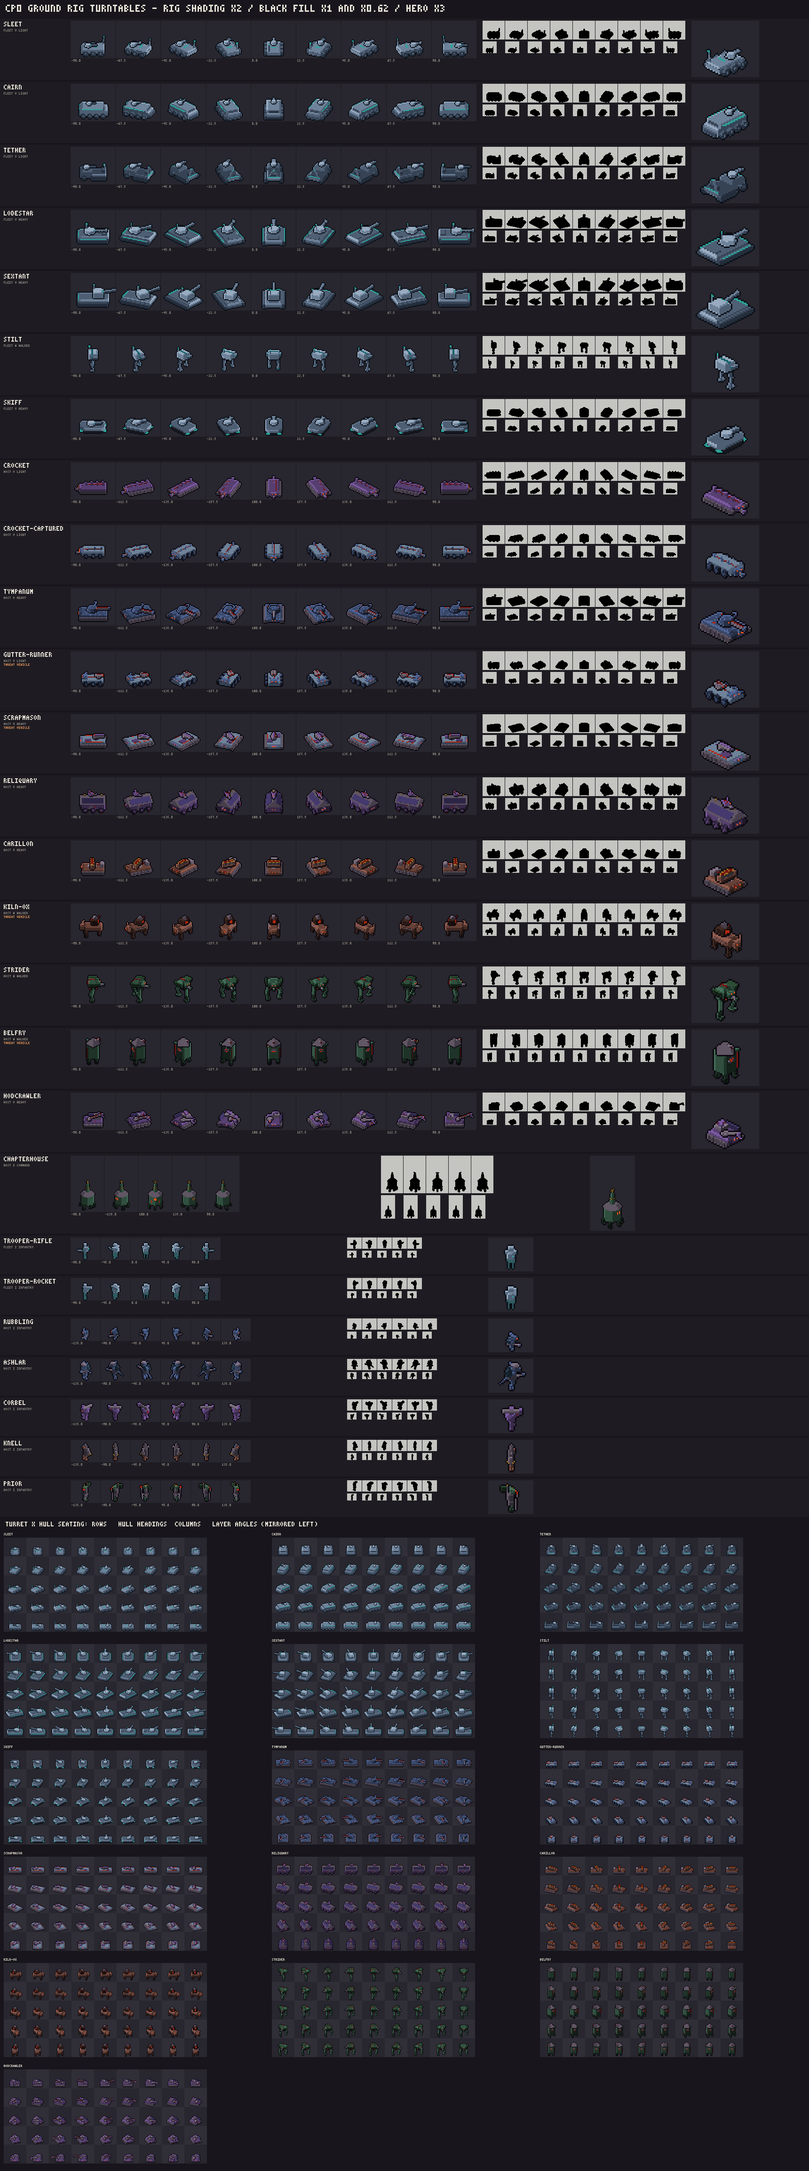
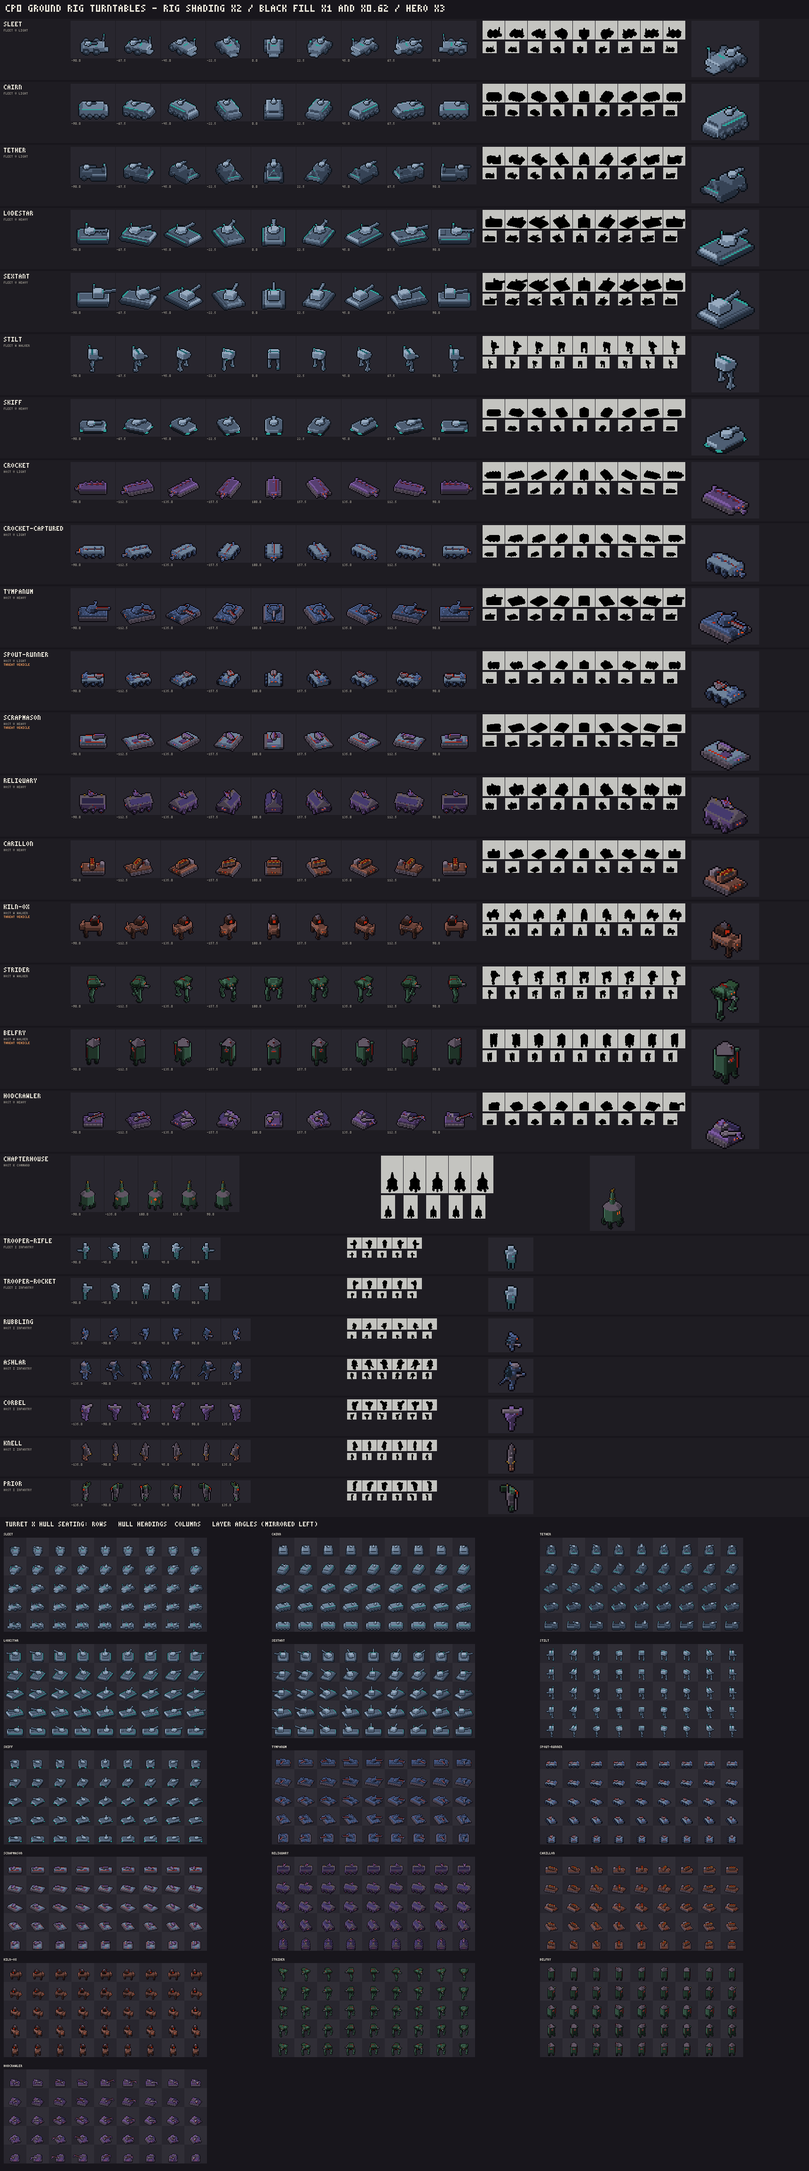
A6 originality: Spout-runner rename, Stilt chin pod, Sleet four wheels and skid
- Rename the Host threat buggy Gutter-runner -> Spout-runner (id, name, rig
  file, ground-host family, regenerated ground_blocks_atlas.dart, openspec
  and plan docs); its launcher is now "channel-fed".
- Stilt: drop the side gun pods; one twin-gun pod slung under the cab front
  (leg gap and seating tests pass).
- Sleet: four big wheels plus a sled skid under the tail instead of six
  wheels; family subject prompt and style guide updated.
- Host negative prompt adds crucifix, scripture, inscription, open book,
  organ pipes, skull(s), human crew (Carillon/Chapterhouse guard).
- Regenerated pack, Fleet krybor/hollow atlases and the rig turntable sheet.
- Plan §10 A6 Done; openspec ground-forces-rework task 1.3 ticked.

Claude-Session: https://claude.ai/code/session_01ALj27NA6A3MCHkUBk5WCWy
Tillandsias-Host: macuahuitl
Generated-By: tool=claude-code

diff --git a/lib/game/ground_blocks_atlas.dart b/lib/game/ground_blocks_atlas.dart
@@ -1410,10 +1410,10 @@ abstract final class GroundBlocks {
       cellW: 48, cellH: 40, threat: false,
       headings: [0.0, 22.5, 45.0, 67.5, 90.0],
       angles: [0.0, 22.5, 45.0, 67.5, 90.0],
-      origin: (24.0, 33.0), artPivot: (24.0, 22.0),
+      origin: (24.0, 31.0), artPivot: (24.0, 22.0),
       pivot: [(0.0, 8.9), (1.9, 8.7), (3.5, 8.2), (4.6, 7.4), (5.0, 6.4)],
       muzzle: [(0.0, 5.8), (3.6, 5.4), (6.7, 4.4), (8.8, 2.9), (9.5, 1.0)],
-      size: [(22, 17), (28, 19), (32, 20), (30, 22), (27, 24)],
+      size: [(22, 21), (28, 22), (31, 22), (32, 21), (31, 24)],
       bob: [],
       pieces: []),
     'cairn': GroundBlockUnit(
@@ -1465,9 +1465,9 @@ abstract final class GroundBlocks {
       cellW: 48, cellH: 40, threat: false,
       headings: [0.0, 22.5, 45.0, 67.5, 90.0],
       angles: [0.0, 22.5, 45.0, 67.5, 90.0],
-      origin: (24.0, 35.0), artPivot: (24.0, 24.5),
+      origin: (24.0, 35.0), artPivot: (24.0, 24.0),
       pivot: [(0.0, 13.0), (0.0, 13.0), (0.0, 13.0), (0.0, 13.0), (0.0, 13.0)],
-      muzzle: [(7.2, 5.1), (8.9, 3.5), (9.3, 1.7), (8.3, -0.1), (6.0, -1.5)],
+      muzzle: [(0.0, 4.1), (4.1, 3.7), (7.5, 2.5), (9.8, 0.8), (10.6, -1.2)],
       size: [(14, 17), (15, 19), (15, 20), (12, 21), (8, 20)],
       bob: [0.0, 1.0, 0.0, 1.0, 0.0, 1.0],
       pieces: []),
@@ -1515,8 +1515,8 @@ abstract final class GroundBlocks {
       size: [(33, 17), (38, 22), (38, 24), (34, 24), (24, 22)],
       bob: [],
       pieces: ['turret', 'arch', 'trackL', 'trackR', 'chip0', 'chip1', 'chip2', 'chip3', 'chip4', 'chip5', 'chip6', 'chip7']),
-    'gutter-runner': GroundBlockUnit(
-      id: 'gutter-runner', faction: 'host', block: 'V', unitClass: 'light', layout: 7,
+    'spout-runner': GroundBlockUnit(
+      id: 'spout-runner', faction: 'host', block: 'V', unitClass: 'light', layout: 7,
       cellW: 48, cellH: 40, threat: true,
       headings: [90.0, 112.5, 135.0, 157.5, 180.0],
       angles: [90.0, 112.5, 135.0, 157.5, 180.0],
@@ -1700,7 +1700,7 @@ abstract final class GroundBlocks {
       'cairn': ('ground-fleet-krybor.png', 4),
       'crocket-captured': ('ground-host-krybor.png', 0),
       'tympanum': ('ground-host-krybor.png', 4),
-      'gutter-runner': ('ground-host-krybor.png', 8),
+      'spout-runner': ('ground-host-krybor.png', 8),
       'trooper-rifle': ('ground-infantry-krybor.png', 0),
       'trooper-rocket': ('ground-infantry-krybor.png', 2),
       'rubbling': ('ground-infantry-krybor.png', 4),

diff --git a/plan/human-ground-forces-style-guide.md b/plan/human-ground-forces-style-guide.md
@@ -48,7 +48,7 @@ The table maps onto the existing ally slots (`GroundAtlas.allyRow(sector, varian
 
 | # | Unit | Role | Slot (sector, variant) | Today | Propulsion | Size h0 / h90 (texels) | Near z 276 / far z 620 (units, h0 width) |
 | --- | --- | --- | --- | --- | --- | --- | --- |
-| F-1 | **Sleet** | Light scout rover | Krybor 0 | rover | 6 big wheels | 22 × 18 / 30 × 16 | 36 / 16 |
+| F-1 | **Sleet** | Light scout rover | Krybor 0 | rover | 4 big wheels + rear skid | 22 × 18 / 30 × 16 | 36 / 16 |
 | F-2 | **Cairn** | Armoured carrier (carries the rifle squad) | Krybor 1 | apc | 8 wheels | 24 × 22 / 34 × 18 | 39 / 17 |
 | F-3 | **Tether** | Half-track with recovery winch | Ringfall 0 | halftrack | front wheels, rear tracks | 24 × 20 / 34 × 17 | 39 / 17 |
 | F-4 | Militia squad | Rifle infantry (squad) | Ringfall 1 | militia | feet | see Section 4.3 | |
@@ -64,10 +64,10 @@ Every vehicle fits a **48 × 40 texel cell** at every heading (the diagonal head
 ### 4.1 Vehicles
 
 **F-1 Sleet: light scout rover.**
-- *Silhouette:* a short flat **wedge** that is lower at the front, on six big wheels that stick out past the body (the wheel row is the cue). A tiny pod turret with a short twin coil gun sits at the front third.
-- *Kit:* a whip antenna at the rear, a roof light bar (3-texel cyan strip), snow skids on the front wheels in Krybor.
+- *Silhouette:* a short flat **wedge** that is lower at the front, on four big wheels that stick out past the body (the wheels are the cue) and a flat sled skid under the tail (A6 originality: not a six-wheel row). A tiny pod turret with a short twin coil gun sits at the front third.
+- *Kit:* a whip antenna at the rear, a roof light bar (3-texel cyan strip), the tail skid reads as snow kit in Krybor.
 - *Motion:* the fastest ally; a 1-texel body bounce on alternate move frames.
-- *Phone read:* a small box with six dark dots around it and a cyan bar on top.
+- *Phone read:* a small box with four big dark wheels at its corners, a skid at the tail and a cyan bar on top.
 
 **F-2 Cairn: armoured carrier.**
 - *Silhouette:* the tallest wheeled box: a **flat roof with a stepped rear** (two steps, like a loading ramp) on eight wheels. A small remote gun pod on the roof. The rear ramp is visible from behind, which is the camera's usual view.
@@ -91,7 +91,7 @@ Every vehicle fits a **48 × 40 texel cell** at every heading (the diagonal head
 - *Phone read:* the barrel angled up. Artillery on both sides is "a thing that aims up", but the Fleet's is a single straight barrel and the Host's are open bells.
 
 **F-7 Stilt: two-legged walker.**
-- *Silhouette:* a **boxy cab** with a wide cyan visor strip, on **two straight telescoping legs** with flat square feet. Gun pods on both sides of the cab. Straight legs are the cue: the Host's walkers stand on arches.
+- *Silhouette:* a **boxy cab** with a wide cyan visor strip, on **two straight telescoping legs** with flat square feet. One twin-gun pod slung under the front of the cab; the cab sides stay plain (A6 originality: no side pods). Straight legs are the cue: the Host's walkers stand on arches.
 - *Motion:* a 6-frame stepped stride with a 1-texel cab bob; feet plant flat with a dust puff; stride-over (terrain guide) on ravine ends.
 - *Phone read:* a box held up by two sticks, cyan slit across the front.
 
@@ -235,12 +235,12 @@ red lights, orange lights, warm glow, gold, fire, horns, face, teeth, spikes, ho
 
 | Unit | Subject line |
 | --- | --- |
-| Sleet | a small fast six wheeled scout rover, low wedge shaped body lower at the front, big wheels sticking out past the body, tiny pod turret with a short twin barrel, whip antenna, roof light bar |
+| Sleet | a small fast four wheeled scout rover, low wedge shaped body lower at the front, four big wheels sticking out past the body, a flat sled skid under the tail, tiny pod turret with a short twin barrel, whip antenna, roof light bar |
 | Cairn | an eight wheeled armoured personnel carrier, tall flat roofed box with a stepped rear loading ramp, small remote gun pod on the roof, square vision blocks |
 | Tether | a half-track recovery vehicle, wheels at the front and a skirted track at the rear, short A-frame crane and cable drum at the back, twin autocannon on a ring mount over the cab |
 | Lodestar | a futuristic main battle tank, low faceted wedge hull with a long chamfered front, side skirts hiding the tracks, flat hexagonal turret set forward, very long thin rail cannon with two coil rings and a square muzzle brake, short sensor mast at the turret rear |
 | Sextant | a self-propelled long range gun on a low tracked wedge hull, tall boxy casemate at the rear, very long barrel angled up, folding spade outriggers at the back |
-| Stilt | a two legged walker, boxy armoured cab with a wide visor slit, two straight telescoping legs with flat square feet, gun pods on both sides of the cab |
+| Stilt | a two legged walker, boxy armoured cab with a wide visor slit, two straight telescoping legs with flat square feet, one twin gun pod slung under the front of the cab, plain flat cab sides |
 | Skiff | a hover tank, flat lozenge hull with chamfered corners, no wheels and no tracks, four hover pads glowing underneath, low turret with a short wide barrel, floating above its shadow |
 | Rifle trooper | a soldier in a light exoskeleton frame seen from behind, squared helmet with a visor strip, flat shoulder plates, battery backpack, long straight rifle |
 | Rocket trooper | the same soldier carrying a box shaped rocket launcher on the shoulder |

diff --git a/plan/render-runs/ground-forces-rework.md b/plan/render-runs/ground-forces-rework.md
@@ -137,7 +137,7 @@ Allow 15% for rerolls: **about 1,500 jobs and 15 hours**, run in phases with the
 | 1 | Pilot: Lodestar, Crocket, Ashlar Guard (heroes, headings, turret, 2 VACE clips each) | about 90 | CP0 |
 | 2 | Fleet: remaining units | about 480 | CP1 |
 | 3 | Host: remaining Tier A and refresh | about 650 | CP2 (can run in parallel with Phase 2 if the operator prefers Host first) |
-| 4 | Threat vehicles (Gutter-runner, Scrapmason, Kiln Ox, Belfry) as V/W blocks, behind a flag | about 230 more | CP5 and a gameplay check of telegraph timing |
+| 4 | Threat vehicles (Spout-runner, Scrapmason, Kiln Ox, Belfry) as V/W blocks, behind a flag | about 230 more | CP5 and a gameplay check of telegraph timing |
 | 5 | Atmosphere and wildlife | about 80 | CP4 |
 
 ## 6. Ledger
@@ -172,7 +172,7 @@ go test ./...         # determinism, heading sets, cell contract, seating, leg g
 `demon-attack.ground-blocks/v1`) and their empty `-runs.json`. Rigs: `art/families/rigs/<unit>.json`, 26 units: Fleet
 Sleet, Cairn, Tether, Lodestar, Sextant, Stilt, Skiff and the rifle and rocket troopers; Host Crocket, captured Crocket,
 Tympanum, Reliquary, Carillon, Hodcrawler, Buttress Strider, Chapterhouse, Rubbling, Ashlar Guard, Corbel Brute,
-Knell-bearer, Prior; and the four threat vehicles (Gutter-runner, Scrapmason Crawler, Kiln Ox, Belfry) with headings, per
+Knell-bearer, Prior; and the four threat vehicles (Spout-runner, Scrapmason Crawler, Kiln Ox, Belfry) with headings, per
 the operator's "no flag, fix forward". Their telegraph keeps the `ground-forces.png` contract as V-block specials (f0
 launcher raised, f1 glow, f2 launch flash, f3 smoking), so no timing moves.
 
@@ -222,7 +222,7 @@ operator, highest first:
 
 | Unit | Concern | Suggestion |
 | --- | --- | --- |
-| **Gutter-runner** (Host threat) | Exact name match with a well-known tabletop fantasy rat-folk scout unit ("Gutter Runners") | Rename, for example **Spout-runner** or **Gutterhound** |
+| **Gutter-runner** (Host threat; renamed **Spout-runner**, A6) | Exact name match with a well-known tabletop fantasy rat-folk scout unit ("Gutter Runners") | Rename, for example **Spout-runner** or **Gutterhound** |
 | **Stilt** (Fleet walker) | A box cab with side gun pods on two legs is close to a famous film franchise's two-legged scout walker | Keep the straight telescoping legs (the film's are reverse-jointed); move the pods under the cab or onto one side only |
 | **Sleet** (Fleet scout) | A six-wheeled rover with outboard wheels and a small turret recalls a well-known sci-fi RPG's six-wheeled exploration tank | Four big wheels plus a rear skid, or a lower pod; the wedge body already differs |
 | **Carillon**, **Chapterhouse** | Gothic war machines with bells and spires sit near a well-known tabletop sci-fi faction's cathedral and organ tanks | The Host is gargoyle stone with no human crew, crosses or scripture; keep that line, avoid organ pipes and skull motifs |
@@ -288,7 +288,7 @@ The operator approved every open recommendation in this plan ("record all approv
 | A3 | Heading edits (§8 finding 1) | Run each heading at denoise 0.7 and 1.0 for the first unit (Lodestar), pick one setting before scaling | Pilot plan |
 | A4 | Name the key colour in prompts (§8 finding 2); no effect words (finding 3) | Yes | Already in the three family `style_prompt`s |
 | A5 | Atlas budget (§7) | 8 MB RGBA per sector, no atlas side over 4096 px; the half-resolution far atlas (decision 1.4) is not needed | Test already enforces it |
-| A6 | Originality (§7.1) | Apply the suggestions: rename **Gutter-runner → Spout-runner** (first suggestion; the operator can still pick Gutterhound); Stilt pods under the cab or on one side; Sleet four big wheels plus a rear skid; Carillon / Chapterhouse keep no crew, crosses, scripture, organ pipes or skulls; Chapterhouse, Belfry, Kiln Ox unchanged (low risk) | To implement before Phase 2 (Fleet/Host rigs, family, atlas names, specs) |
+| A6 | Originality (§7.1) | Apply the suggestions: rename **Gutter-runner → Spout-runner** (first suggestion; the operator can still pick Gutterhound); Stilt pods under the cab or on one side; Sleet four big wheels plus a rear skid; Carillon / Chapterhouse keep no crew, crosses, scripture, organ pipes or skulls; Chapterhouse, Belfry, Kiln Ox unchanged (low risk) | **Done** (branch `work/a6-originality`): id/name/rig `spout-runner`, atlas regenerated; Stilt has one twin-gun chin pod under the cab, no side pods; Sleet on four big wheels plus a tail sled skid (rig and subject); Host negative prompt adds crucifix, scripture, inscription, open book, organ pipes, skull(s), human crew; Carillon/Chapterhouse rigs and prompts carry none of these. validate, offline, contact and `go test` pass |
 
 ## 11. Ledger: A1 finish, pilot heroes re-rendered (2026-11-15, after the cache wipe)
 

diff --git a/plan/ground-unit-animation.md b/plan/ground-unit-animation.md
@@ -180,7 +180,7 @@ on update(x, z, dt):
 | Class | ωMax (hull) | minHold | ωMax (articulated layer) |
 | --- | --- | --- | --- |
 | Infantry | 360°/s | 0.10 s | — |
-| Light vehicle (Sleet, Cairn, Tether, Crocket, Gutter-runner) | 180°/s | 0.12 s | 270°/s |
+| Light vehicle (Sleet, Cairn, Tether, Crocket, Spout-runner) | 180°/s | 0.12 s | 270°/s |
 | Heavy (Lodestar, Sextant, Skiff, Tympanum, Reliquary, Carillon, Hodcrawler) | 75°/s | 0.20 s | 120°/s |
 | Walker (Stilt, Buttress Strider) | 90°/s | 0.18 s (a step lands on a stride plant when one is within 0.1 s) | 150°/s |
 | Chapterhouse | 30°/s | 0.40 s | — |
@@ -250,7 +250,7 @@ Frames are per authored heading unless marked "at hT" (one heading only). "Ov" m
 | Buttress Strider | W | stance 2 × 2 h | stride 6 × 5 h | `fill1–3` Ov × 5 h | bloom + 1 texel rock | flash | dmg × 5 h (knee pinnacles snap) | collapse 3 + rubble 2 + pieces | 4 | strideOver 3 | 100 |
 | Chapterhouse | K | idle 2 + banners 3 Ov | stride 6 × 3 h | pulse 4 | — | flash | dmg × 3 h | fall 5 + rubble 2 + pieces | 4 (doors of the undercroft) | command pulse | 60 double cells |
 
-Threat vehicles (Gutter-runner, Scrapmason Crawler, Kiln Ox, Belfry) keep their rows and frame contract in `ground-forces.png`. Giving them V/W blocks is Phase 4 of the render plan, behind a flag, because their launch and telegraph timing is a gameplay contract.
+Threat vehicles (Spout-runner, Scrapmason Crawler, Kiln Ox, Belfry) keep their rows and frame contract in `ground-forces.png`. Giving them V/W blocks is Phase 4 of the render plan, behind a flag, because their launch and telegraph timing is a gameplay contract.
 
 ### 7.2 Host arrival (unearthing), frame by frame
 
@@ -273,7 +273,7 @@ The other agent's arrival code decides **when** a unit unearths and when it walk
 | Lodestar | V | lights Ov | 4 × 5 h | 5 a (barrel slide, muzzle ring) | shards | × 5 h | as above | — | 80 |
 | Sextant | V | lights Ov | 4 × 5 h | 5 a + 2 elevations | shards | × 5 h | as above | brace 2 (spades) | 80 |
 | Skiff | V | hover bob is the idle | 2 × 5 h | 5 a | shards | × 5 h | as above (drops onto its belly) | — | 80 |
-| Stilt | W | stance 2 × 2 h | stride 6 × 5 h | cab pods 5 a | shards | × 5 h | as above (kneels) | strideOver 3 | 100 |
+| Stilt | W | stance 2 × 2 h | stride 6 × 5 h | chin pod 5 a | shards | × 5 h | as above (kneels) | strideOver 3 | 100 |
 | Rifle trooper | I | 2 | 4 × 3 h | `aim` 2 + `fire` 1 | 1 | — | stumble 2, `kneel` | `flourish` 4 (dance), `run` 2 | 40 |
 | Rocket trooper | I | 2 | 4 × 3 h | 2 + 1 (backblast fx) | 1 | — | 2, kneel | `flourish` 4, `run` 2 | 40 |
 

diff --git a/openspec/changes/ground-forces-rework/tasks.md b/openspec/changes/ground-forces-rework/tasks.md
@@ -5,9 +5,11 @@ Prerequisite: `gargoyle-ground-army` tasks 1.1–1.3 (Host art direction approva
 ## 1. Design review
 - [ ] 1.1 Operator review of `plan/human-ground-forces-style-guide.md`: pillars, roster and names, palette, readability rules
 - [ ] 1.2 Operator decision on the heading count (5 per faction), the turn tracker numbers, and the block layouts in `plan/ground-unit-animation.md`
-- [ ] 1.3 Originality pass for the Fleet: every name and silhouette checked against well-known game, film and toy vehicles; rename or redesign near matches; no prompt names a franchise, studio or artist
+- [x] 1.3 Originality pass for the Fleet: every name and silhouette checked against well-known game, film and toy vehicles; rename or redesign near matches; no prompt names a franchise, studio or artist
       (2026-11-14: written checklist from memory in `plan/render-runs/ground-forces-rework.md` §7.1, both armies; flags
-      Gutter-runner (name), Stilt, Sleet; no renames made. Awaiting the operator.)
+      Gutter-runner (name), Stilt, Sleet. 2026-11-15, operator decision A6: renamed Spout-runner; Stilt
+      side pods moved to one chin pod under the cab; Sleet on four big wheels plus a tail skid; Host negative prompt
+      bans crosses, scripture, organ pipes, skulls and human crew.)
 - [x] 1.4 Operator decisions on the open questions in `design.md` (2026-11-14): **five headings** per faction;
       pilot **Fleet and Host together**; the **full pipeline** (about 13 GPU hours); the **threat vehicles get
       headings too, with no flag** ("we fix forward"): respect the difficulty contract

diff --git a/plan/ground-easter-eggs.md b/plan/ground-easter-eggs.md
@@ -31,7 +31,7 @@ Every easter egg obeys all of these. The runtime enforces them in one place (an 
 
 | | |
 | --- | --- |
-| **Who** | Host light vehicles: Crocket, the captured Krybor hulls, the Gutter-runner (once it has a V-block). Heavier Host units crumble (rubble) and drop 3–4 pieces |
+| **Who** | Host light vehicles: Crocket, the captured Krybor hulls, the Spout-runner (once it has a V-block). Heavier Host units crumble (rubble) and drop 3–4 pieces |
 | **Trigger** | Destroyed at z < 900 |
 | **Rarity** | The **breakup** is the standard death for light Host vehicles (always). The **jackpot** variant, 1 in 8 breakups (cooldown 20 s): the turret or ridge head pops high, spins in quarter turns, bounces once and lands upright; a tiny Rubbling crew of two climbs out of the hull, looks at it, and scampers off into the rubble |
 | **What plays** | Frame 0: the existing shock ring and the first 3 explosion frames. Then 5–8 **debris pieces** fly on ballistic arcs (screen space, scaled by depth), each tumbling in quarter turns (0°, 90°, 180°, 270°, mirrored: lossless, no new art) at 8–12 steps/s. Pieces bounce once (40% restitution), slide 2–4 texels and stop; warm seams on stone pieces cool from `demon_warm[2]` to stone over 1.5 s; pieces fade at 2.5 s. The hull itself shows `wreck` then `rubble` |

diff --git a/plan/render-runs/RESUME.md b/plan/render-runs/RESUME.md
@@ -194,8 +194,8 @@ On resume:
    picks one hero per unit (`hero.selected` in the family).
 3. Then `go run . jobs` and the heading jobs, Lodestar first at denoise 0.7 vs 1.0 (A3), then turret angles and the
    VACE clips (Lightning graphs, A2), one job at a time; push after each checkpoint (CP1 sheet `ground-pilot.png`).
-4. A6 renames and silhouette tweaks before Phase 2; Gutter-runner → Spout-runner touches `art/families/rigs/gutter-runner.json`,
-   `ground-host.json`, `lib/game/ground_blocks_atlas.dart`, the openspec changes and the plan docs.
+4. ~~A6 renames and silhouette tweaks before Phase 2~~ Done on `work/a6-originality`: Gutter-runner → Spout-runner
+   (`art/families/rigs/spout-runner.json`), Stilt chin pod, Sleet four wheels plus a tail skid (§10 A6).
 
 ## Relaunch 2026-11-15 ~07:15 UTC (tray 56.11.15.5): the cache volume was wiped
 

diff --git a/openspec/changes/gargoyle-ground-army/proposal.md b/openspec/changes/gargoyle-ground-army/proposal.md
@@ -40,7 +40,7 @@ Contract kept from v4: **same threat.** Every new unit lives in the skirmish lay
   Tier B, the stretch set: Narthex (super-heavy), Rosegun (rotary rocket artillery), Thurible (smoke) and Cistern (slag tanker).
 
   The existing units take Host names and a refresh direction, keeping their atlas rows:
-  - Gutter-runner, Scrapmason Crawler, Kiln Ox and Belfry (the threat vehicles);
+  - Spout-runner, Scrapmason Crawler, Kiln Ox and Belfry (the threat vehicles);
   - Ashlar Guard, Corbel Brutes and Tympanum (the existing troops and heavy tank).
 - **Palette.** The sector stone ramps sit at the existing `demon_ramp` lumas. `demon_warm` stays the only blinking accent: eyes, mouths, channels and telegraphs. A new non-blinking **`demon_gilt`** ramp marks rank. Ally cyan and teal stay forbidden on Host hulls.
 - **Art families and atlases.**

diff --git a/plan/gargoyle-army-style-guide.md b/plan/gargoyle-army-style-guide.md
@@ -93,7 +93,7 @@ Sizes are the visible content box in **texels** (the ground atlases have 1 texel
 | K-1 | **Chapterhouse** | Spire | Mobile command walker | A | Hollow (rare), Carrier | 44 × 40 | 27 × 25 → 48 × 44 |
 
 The existing threat vehicles get Host names and an art direction, with the same rows and frame contract (`lib/game/ground_atlas.dart`):
-- **Gutter-runner**: the Krybor rocket buggy, a captured human buggy with a carved gargoyle hood and a gutter-fed launcher;
+- **Spout-runner**: the Krybor rocket buggy, a captured human buggy with a carved gargoyle hood and a channel-fed launcher;
 - **Scrapmason Crawler**: the Ringfall missile crawler, salvage hull plates mortared with stone;
 - **Kiln Ox**: the Ember artillery beast, four-legged basalt with a kiln-mouth mortar;
 - **Belfry**: the Hollow walking siege tower.

diff --git a/openspec/changes/gargoyle-ground-army/design.md b/openspec/changes/gargoyle-ground-army/design.md
@@ -144,5 +144,5 @@ The music director adds nothing new: these events do not raise tiers, because th
 
 ## Open questions
 1. Should the Chapterhouse ever become a homing target, which would give the player a reason to pick a fight on the ground? Default: no (v4 rule). Revisit only with a balance proof.
-2. Should the threat-vehicle refresh (Gutter-runner, Scrapmason, Kiln Ox, Belfry) be its own change?
+2. Should the threat-vehicle refresh (Spout-runner, Scrapmason, Kiln Ox, Belfry) be its own change?
 3. Sector tint: runtime ramp mapping or baked variants (decision 4)?
